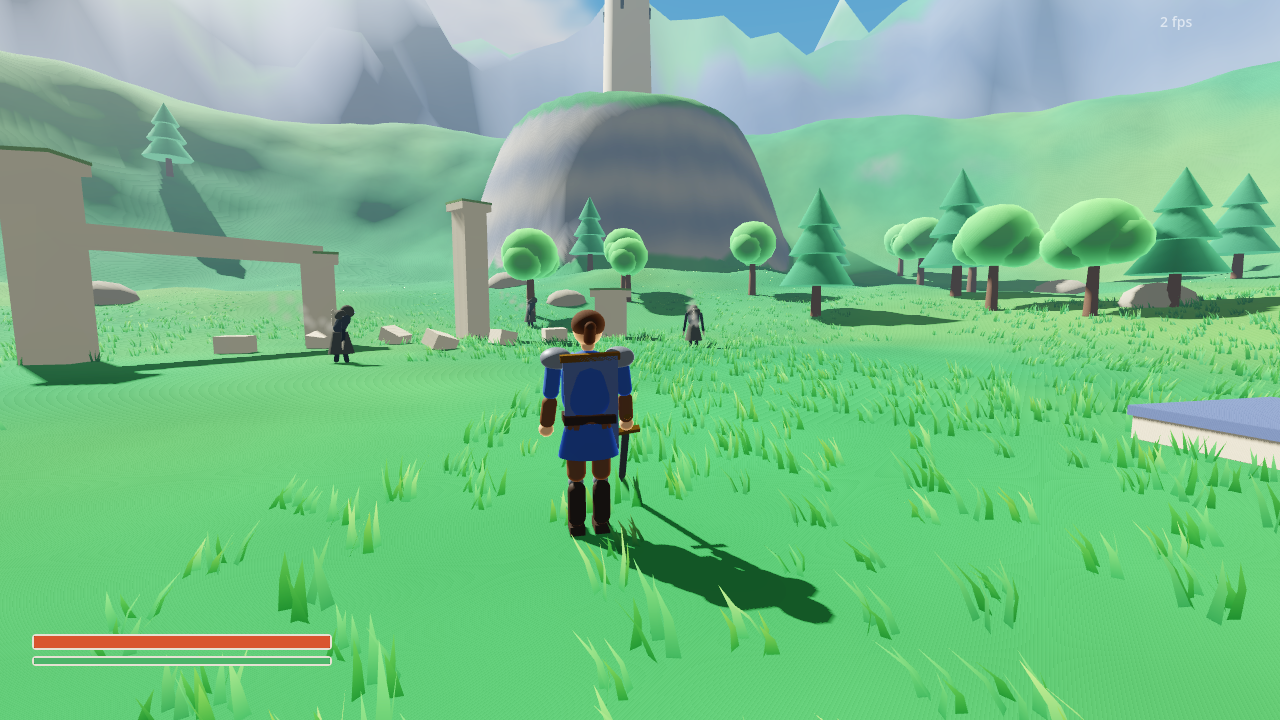
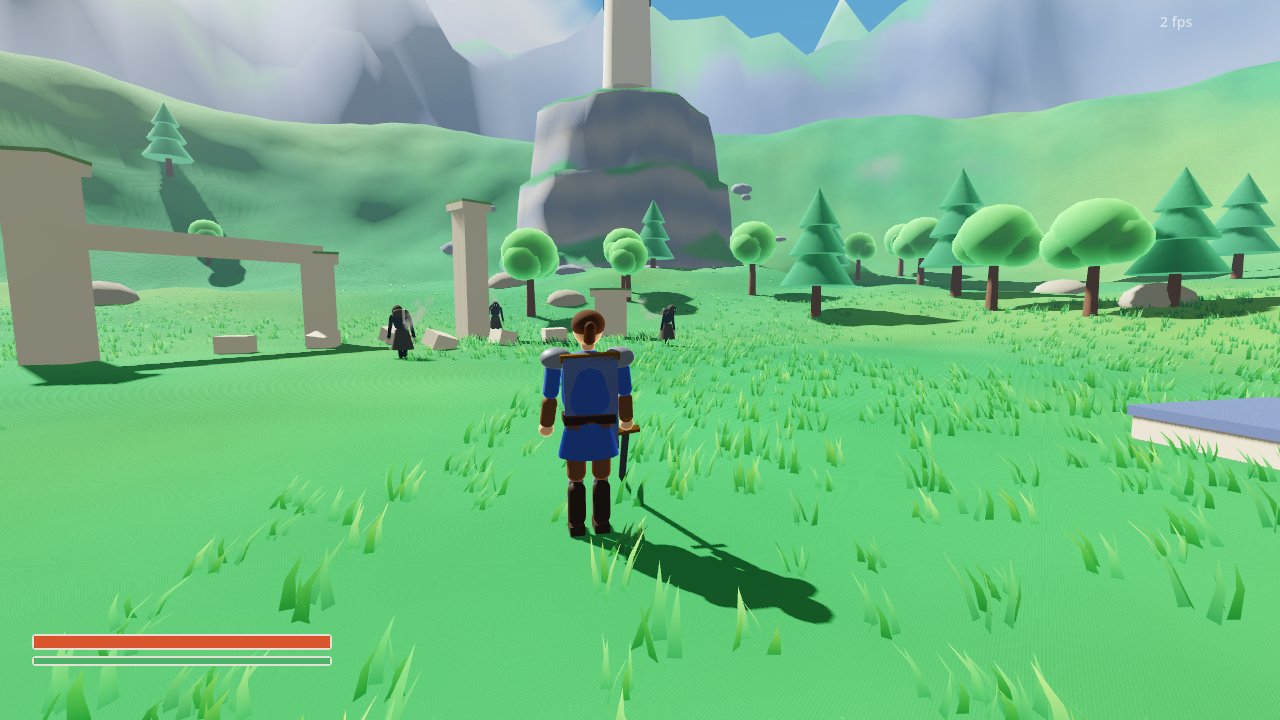
Veilspire-rots: gefacetteerde klif met grasrichels, lichtere mist
Claude-Session: https://claude.ai/code/session_01X1Hshh3gfRJFNSyViJVPYM

diff --git a/CHANGELOG.md b/CHANGELOG.md
@@ -19,6 +19,7 @@ Eerste run. Repo opgezet en de speelbare kern van fase 1 gebouwd, plus twee blok
 - Testvallei: terrein met kliffen en heuvels, Veilspire op een klif, ruïnes met boog, bergring met grote sneeuwtop, bomen met wind.
 - Hemel-shader met wolken, zon, maan en sterren. Dag-nachtcyclus (16 minuten). Gras met wind (14.000 plukjes, MultiMesh). Stof bij sprinten, landen en ontwijken.
 - Map `feedback/` met uitleg, op verzoek van de eigenaar.
+- Na de eerste zelfcontrole: de ronde klif onder de Veilspire vervangen door een gefacetteerde rots met grasrichels en losse rotsblokken aan de voet. Mist iets lichter, zodat de bergring meer vorm houdt.
 
 **Feedback verwerkt**
 - Geen open feedback-issues.
@@ -34,7 +35,7 @@ Eerste run. Repo opgezet en de speelbare kern van fase 1 gebouwd, plus twee blok
 ![Avond](docs/screenshots/2026-11-13/05_avond.png)
 
 **Zelfcontrole**
-- Diepte: ja. Gras en held voor, ruïnes en bomen in het midden, klif, toren en bergring achter. | Landmark: ja, de Veilspire op de klif, ook van ver zichtbaar. | Palet: grotendeels. Held en toren volgen het palet. Overdag is het gras iets te licht mintgroen en de bergen te grijs-wit. | Game of demo: eerder game, vooral het avondbeeld en het gevechtsbeeld. Het daglicht oogt nog wat vlak. | Zwakste deel: de klif onder de toren (een ronde kei) en de bergring overdag. Staat bovenaan de roadmap.
+- Diepte: ja. Gras en held voor, ruïnes en bomen in het midden, klif, toren en bergring achter. | Landmark: ja, de Veilspire op de klif, ook van ver zichtbaar. | Palet: grotendeels. Held en toren volgen het palet. Overdag is het gras iets te licht mintgroen en de bergen te grijs-wit. | Game of demo: eerder game, vooral het avondbeeld en het gevechtsbeeld. Het daglicht oogt nog wat vlak. | Zwakste deel: eerst de klif onder de toren (een ronde kei). Die is in dezelfde run vervangen. Nu is de bergring overdag het zwakst: te grijs-wit en vlak. Staat bovenaan de roadmap.
 
 **Prestaties:** niet betrouwbaar te meten hier (alleen software-rendering, 2 tot 3 fps). Headless physics draait op de 60 Hz-limiet (16,7 ms per frame). De web-build start zonder fouten in headless Chromium. Graag een meting op een echte laptop.
 
@@ -52,6 +53,6 @@ Eerste run. Repo opgezet en de speelbare kern van fase 1 gebouwd, plus twee blok
 - Geen externe assets. Alles is procedureel.
 
 **Volgende run**
-- Klif onder de toren tot echte rotswand maken, bergring overdag meer leisteenblauw.
+- Bergring overdag meer leisteenblauw en vorm. Pad omhoog naar de Veilspire.
 - Blok 1.6b: ontwijk-nabeeld, betere idle-pose, gezicht van de held.
 - Daarna fase 2: terreinshader (2.2b), water (2.3).

diff --git a/docs/ROADMAP.md b/docs/ROADMAP.md
@@ -6,7 +6,7 @@ Blokken van ongeveer 60 minuten. De bouwagent pakt elke run het eerste niet-afge
 
 ## Eerst volgende run (uit zelfcontrole)
 
-- **Klif onder de Veilspire** oogt als een ronde kei. Maak er een echte rotswand van: richels, breuklijnen, losse rotsblokken aan de voet, een pad omhoog.
+- **Pad naar de Veilspire.** De rots heeft nu richels, maar je kunt er nog niet op. Een pad of trap langs de richels omhoog.
 - **Bergring overdag** is te vlak grijs-wit. Meer leisteenblauw in de flanken, scherpere sneeuwgrens.
 
 ## Fase 1: speelbare kern (snel en vloeiend)
@@ -23,7 +23,7 @@ Blokken van ongeveer 60 minuten. De bouwagent pakt elke run het eerste niet-afge
 
 - [ ] 2.1 Terrein in chunks met streaming en LOD, groter dan de testvallei.
 - [x] 2.2a Gras met wind (MultiMesh, 14.000 plukjes rond de arena, vervaagt op afstand).
-- [ ] 2.2b Terreinshader verfijnen (paden, rotsrichels, klif onder de toren).
+- [ ] 2.2b Terreinshader verfijnen (paden, rotsrichels). Klif onder de toren is al vervangen door een gefacetteerde rots met grasrichels.
 - [ ] 2.3 Water (meer en rivier) met golvende shader.
 - [x] 2.4 Hemel met wolken (eigen sky-shader), dag-nachtcyclus van 16 minuten met maan en sterren, mist en ambient per tijdstip.
 - [ ] 2.5 Landmarks: hoofdberg, Veilspire, ruïnes, een dorp.
